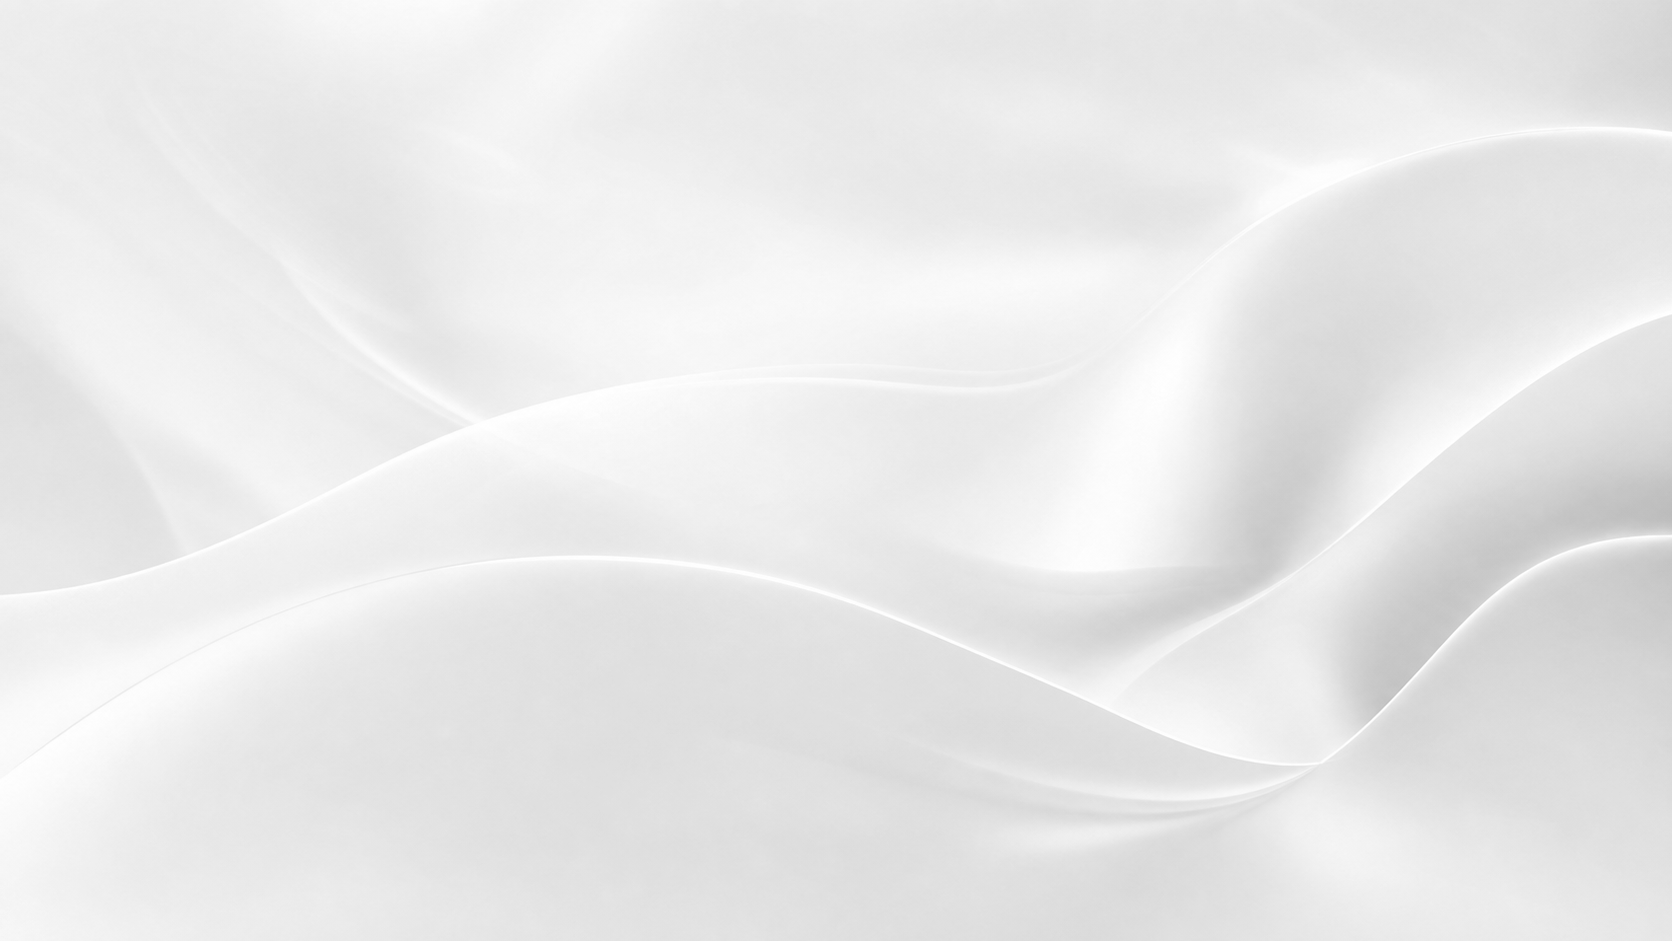
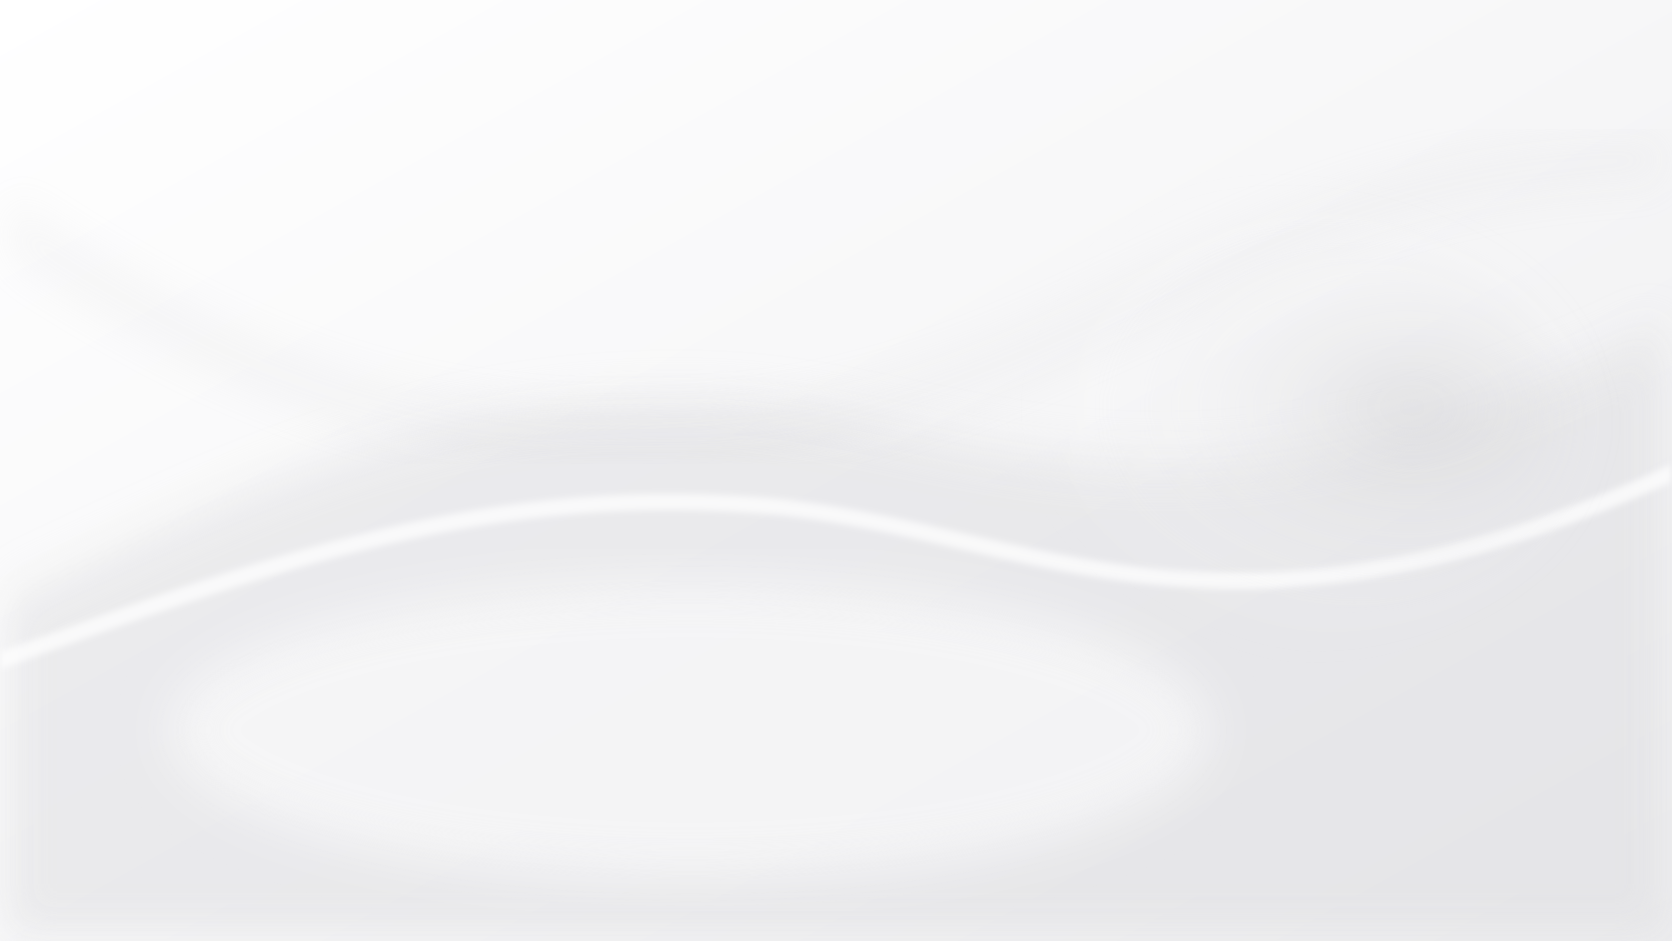
style: refine grayscale background treatment

diff --git a/src/app/page.tsx b/src/app/page.tsx
@@ -318,10 +318,10 @@ function SoftHeroBackground() {
         fill
         priority
         sizes="100vw"
-        className="scale-[1.1] object-cover opacity-[0.28] blur-[20px] saturate-[0.72] md:opacity-[0.34] md:blur-[22px]"
+        className="scale-[1.08] object-cover opacity-[0.36] blur-[16px] saturate-0 contrast-[1.08] md:opacity-[0.42] md:blur-[18px]"
       />
-      <div className="absolute inset-0 bg-[linear-gradient(180deg,rgba(250,252,255,0.66),rgba(250,252,255,0.92)_72%,rgba(250,252,255,1))]" />
-      <div className="absolute inset-x-[10%] top-[8%] h-28 rounded-full bg-white/64 blur-3xl md:inset-x-[18%]" />
+      <div className="absolute inset-0 bg-[linear-gradient(180deg,rgba(251,251,251,0.54),rgba(251,251,251,0.86)_72%,rgba(251,251,251,0.98))]" />
+      <div className="absolute inset-x-[10%] top-[8%] h-28 rounded-full bg-white/52 blur-3xl md:inset-x-[18%]" />
     </div>
   );
 }

diff --git a/src/app/projects/page.tsx b/src/app/projects/page.tsx
@@ -252,10 +252,10 @@ function ProjectsHeaderBackground() {
         fill
         priority
         sizes="100vw"
-        className="scale-[1.12] object-cover opacity-[0.22] blur-[20px] saturate-[0.78] md:opacity-[0.28]"
+        className="scale-[1.08] object-cover opacity-[0.34] blur-[14px] saturate-0 contrast-[1.12] md:opacity-[0.38] md:blur-[16px]"
       />
-      <div className="absolute inset-0 bg-[linear-gradient(180deg,rgba(250,252,255,0.68),rgba(250,252,255,0.92)_70%,rgba(250,252,255,1))]" />
-      <div className="absolute inset-x-[18%] top-8 h-24 rounded-full bg-white/62 blur-3xl" />
+      <div className="absolute inset-0 bg-[linear-gradient(180deg,rgba(251,251,251,0.58),rgba(251,251,251,0.88)_70%,rgba(251,251,251,0.98))]" />
+      <div className="absolute inset-x-[18%] top-8 h-24 rounded-full bg-white/48 blur-3xl" />
     </div>
   );
 }
